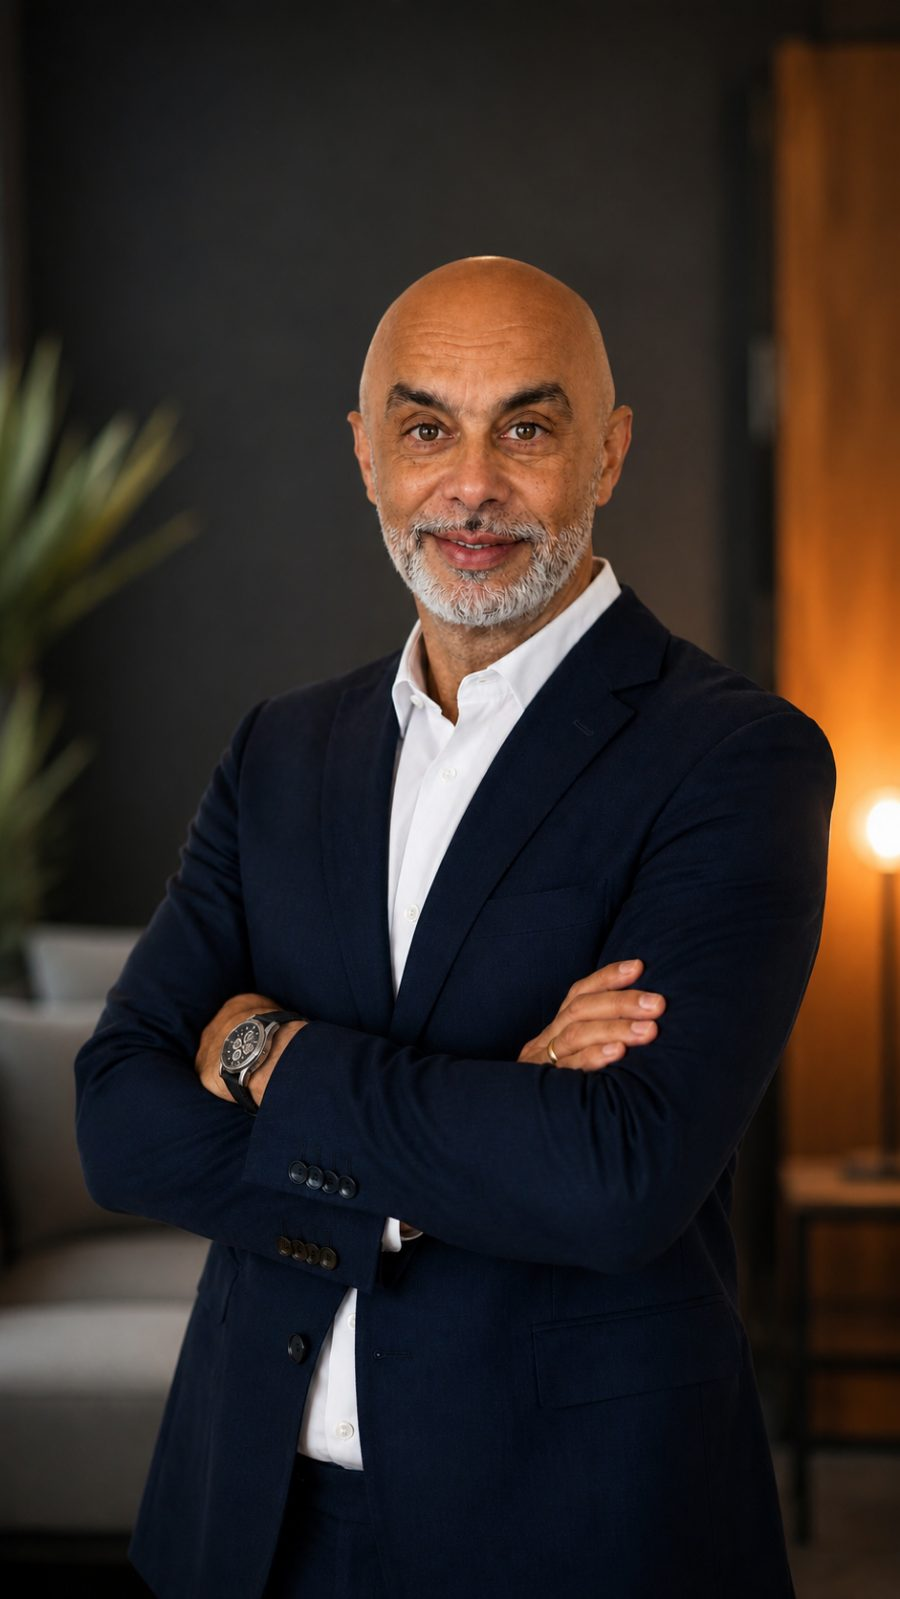
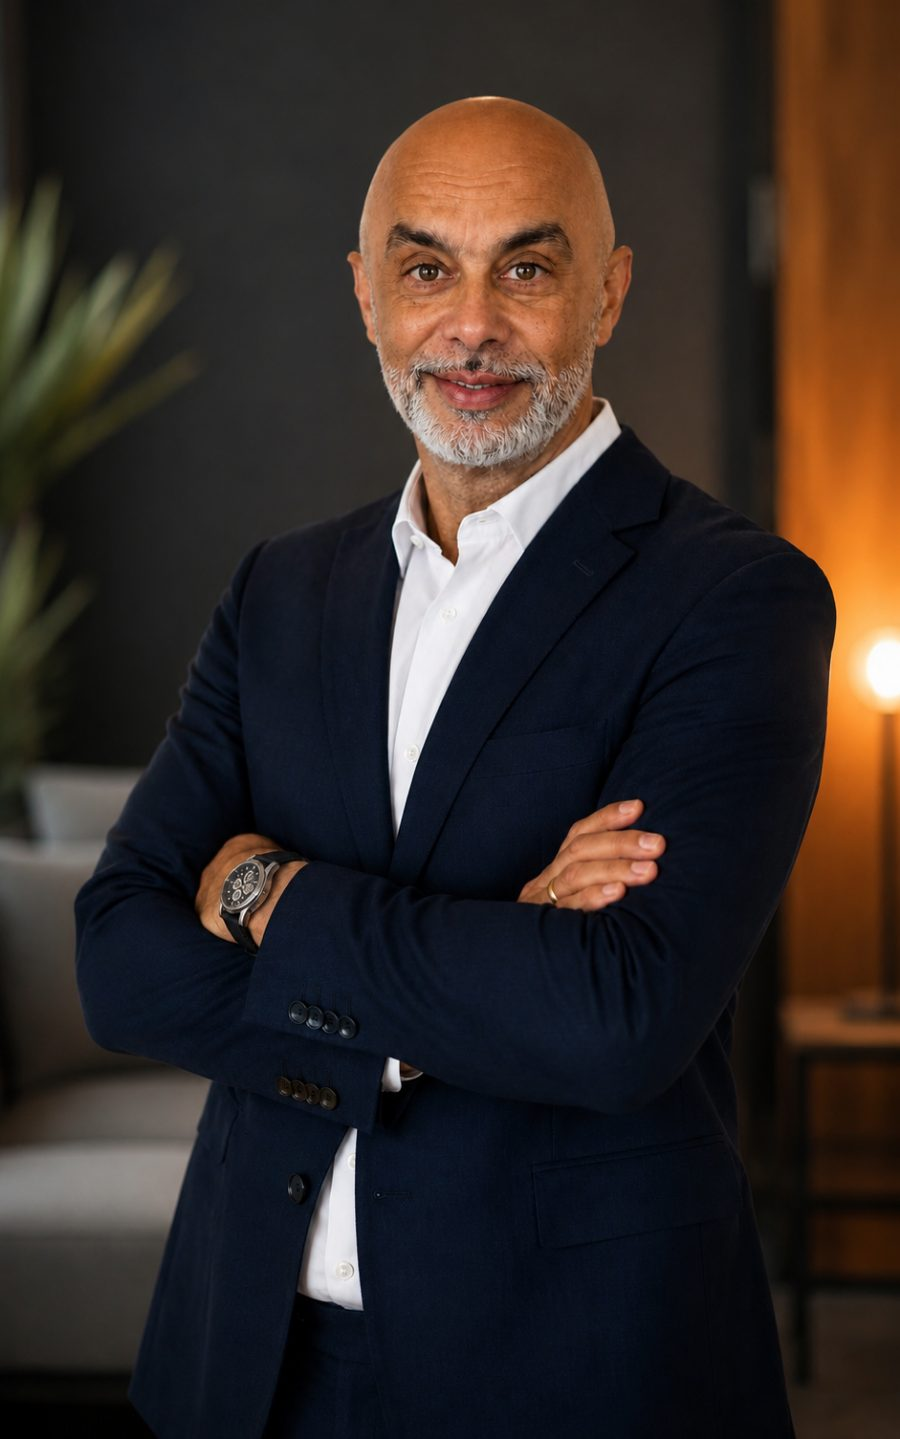
Accueil : équipe pastorale juste après la vision + recadrage portrait
- Section équipe déplacée entre la mission et l'agenda
- Portrait de Benjamin recadré : visage légèrement plus haut dans la carte

diff --git a/eglise-tout-est-possible-pau/src/app/page.tsx b/eglise-tout-est-possible-pau/src/app/page.tsx
@@ -55,6 +55,9 @@ export default function HomePage() {
         </div>
       </Section>
 
+      {/* Équipe pastorale — juste après la vision, cartes profil */}
+      <TeamSlider />
+
       {/* Agenda — remplace le rendez-vous du dimanche, en clair */}
       <Section tone="light" className="!bg-leaf-faint">
         <div className="wrap">
@@ -93,9 +96,6 @@ export default function HomePage() {
           </Reveal>
         </div>
       </Section>
-
-      {/* Équipe pastorale — cartes défilantes style référence */}
-      <TeamSlider />
 
       {/* Le dernier message */}
       <LatestMessage />
